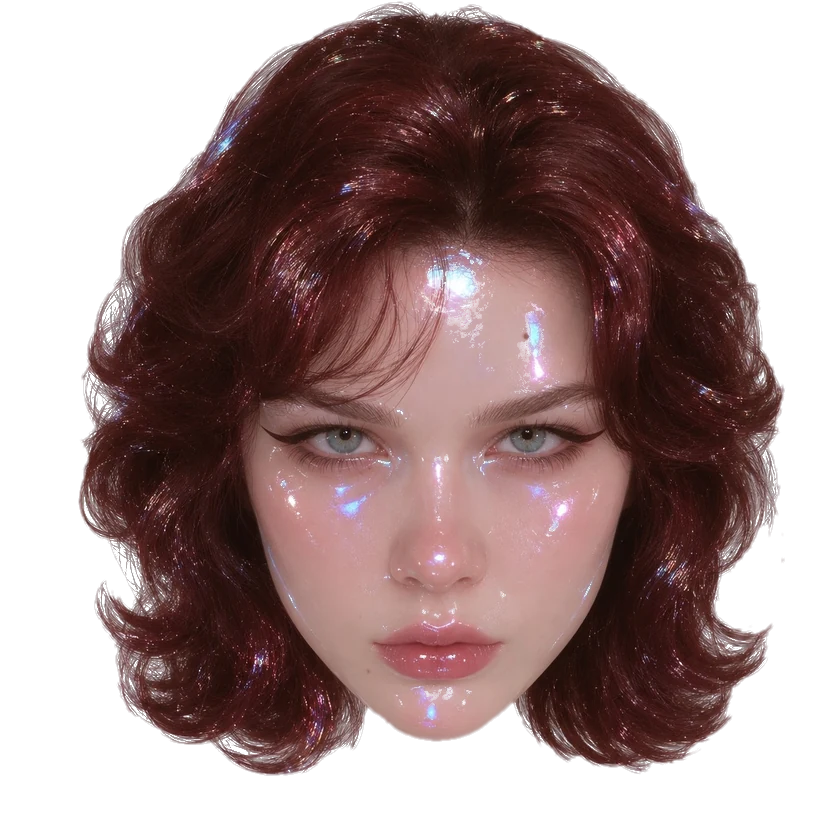
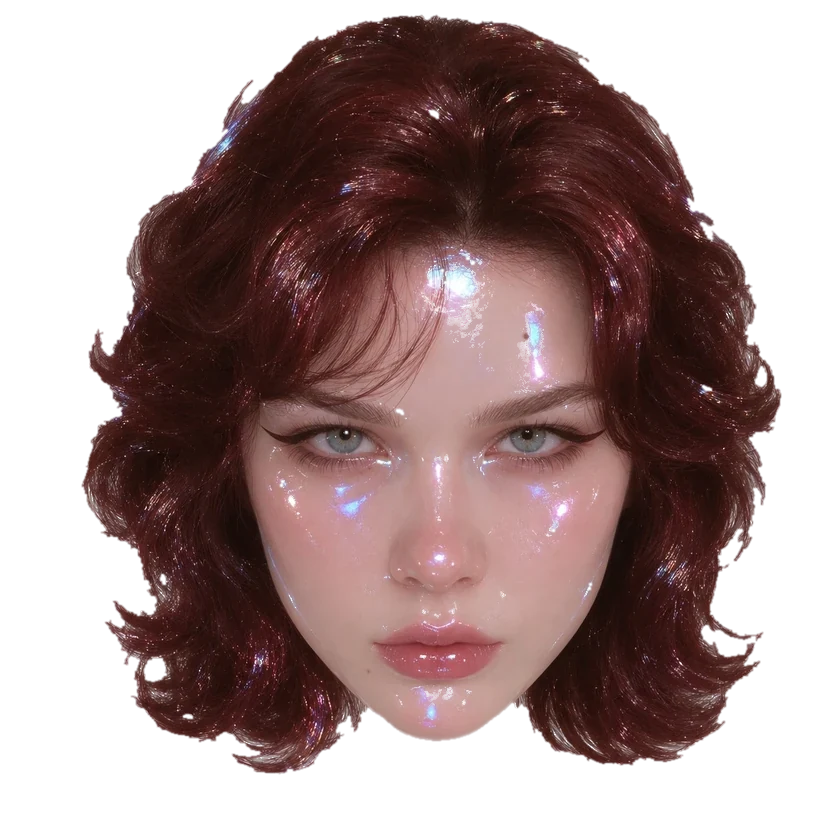
Pixel face during blocks.exe, clean head edges
- while blocks.exe is open the face turns into a chunky pixel sprite, and back on close
- strip the leftover light background fringe around the hair on every face sheet

Claude-Session: https://claude.ai/code/session_013VWYto3vodYce8HmJyEe1r

diff --git a/js/script.js b/js/script.js
@@ -49,7 +49,9 @@
     eat: () => blip(880, 0.06, "square", 0.04, 1320),
     die: () => blip(300, 0.4, "sawtooth", 0.05, 60),
     boot: () => seq([523, 659, 784, 1047, 784, 1047], 110, "triangle", 0.06),
-    error: () => seq([220, 220], 140, "square", 0.05)
+    error: () => seq([220, 220], 140, "square", 0.05),
+    pixelOn: () => seq([262, 392, 523, 784, 1047], 60, "square", 0.04),
+    pixelOff: () => seq([1047, 784, 523, 392], 50, "square", 0.035)
   };
   const soundBtn = $("tray-sound");
   function setSound(on) {
@@ -729,7 +731,7 @@
   function openBlocks(from) {
     return createWin({
       id: "blocks", title: "blocks.exe", w: 320, h: "auto", from, dx: -240, dy: -30, flat: true,
-      onClose() { if (blocksApi) blocksApi.stop(); blocksApi = null; },
+      onClose() { if (blocksApi) blocksApi.stop(); blocksApi = null; setPixelFace(false); },
       fill(body) {
         const app = h("div", "snake-app blocks-app");
         const row = h("div", "blocks-row");
@@ -751,6 +753,7 @@
         app.append(row, pad, h("div", "snake-tip", "← → MOVE · ↑ TURN · ↓ DROP · SPACE SLAM"));
         body.appendChild(app);
         blocksApi = makeBlocks(cv, nx, msg, sS, sL, sB, pad, mus);
+        setPixelFace(true);
       }
     });
   }
@@ -1273,12 +1276,49 @@
   function blink() { /* the video has no blink */ }
   // mosaic: 0 = big blocks, 1 = the clear photo (animated in after loading)
   let mosaic = 0, lastKey = "";
+  // pix: 0 = the normal photo, 1 = a chunky pixel sprite of her
+  const PIX_RES = 56;
+  let pix = 0, pixAnim = 0;
+  function setPixelFace(on) {
+    const from = pix, to = on ? 1 : 0;
+    if (from === to) return;
+    if (reduceMotion) { pix = to; return; }
+    const t0 = performance.now(), id = ++pixAnim;
+    sfx[on ? "pixelOn" : "pixelOff"]();
+    (function step(now) {
+      if (id !== pixAnim) return;
+      const p = Math.min(1, (now - t0) / 700);
+      // jump through a few resolutions, like a retro transform
+      const q = Math.round(p * 6) / 6;
+      pix = p >= 1 ? to : from + (to - from) * Math.min(0.97, q);
+      if (p < 1) requestAnimationFrame(step);
+    })(t0);
+  }
   const mc = document.createElement("canvas"), mx = mc.getContext("2d");
   // draw frame i of a sprite sheet into the head canvas (same size + position for every sheet)
   function blit(img, sh, i, alpha) {
     const s = sh.size, sx = (i % sh.cols) * s, sy = Math.floor(i / sh.cols) * s;
     hx.globalAlpha = alpha == null ? 1 : alpha;
-    if (mosaic >= 1) { hx.imageSmoothingEnabled = true; hx.drawImage(img, sx, sy, s, s, 0, 0, hc.width, hc.height); }
+    if (pix > 0 && mosaic >= 1) {
+      // pixel-sprite version of the face (while blocks.exe is open)
+      const n = Math.round(hc.width - (hc.width - PIX_RES) * pix);
+      mc.width = n; mc.height = n; mx.clearRect(0, 0, n, n);
+      mx.imageSmoothingEnabled = true;
+      mx.drawImage(img, sx, sy, s, s, 0, 0, n, n);
+      if (pix >= 1) {
+        // crisp sprite edges + a reduced palette
+        const d = mx.getImageData(0, 0, n, n), a = d.data;
+        for (let k = 0; k < a.length; k += 4) {
+          if (a[k + 3] < 110) { a[k + 3] = 0; continue; }
+          a[k + 3] = 255;
+          for (let c = 0; c < 3; c++) a[k + c] = Math.min(255, Math.round(a[k + c] / 36) * 36 + 10);
+        }
+        mx.putImageData(d, 0, 0);
+      }
+      hx.imageSmoothingEnabled = false;
+      hx.drawImage(mc, 0, 0, n, n, 0, 0, hc.width, hc.height);
+    }
+    else if (mosaic >= 1) { hx.imageSmoothingEnabled = true; hx.drawImage(img, sx, sy, s, s, 0, 0, hc.width, hc.height); }
     else {
       const n = Math.max(8, Math.round(hc.width * mosaic * mosaic));
       mc.width = n; mc.height = n; mx.clearRect(0, 0, n, n);
@@ -1291,7 +1331,7 @@
   const ready = (img) => img.complete && img.naturalWidth > 0;
   // one frame, or a crossfade between two: layers = [[img, sheet, index, alpha], ...]
   function paint(layers) {
-    const key = layers.map((l) => l[1].src + l[2] + ":" + (l[3] == null ? 1 : l[3].toFixed(2))).join("|") + "@" + mosaic;
+    const key = layers.map((l) => l[1].src + l[2] + ":" + (l[3] == null ? 1 : l[3].toFixed(2))).join("|") + "@" + mosaic + "/" + pix;
     if (key === lastKey) return;
     if (!layers.every((l) => ready(l[0]))) return;
     lastKey = key;
